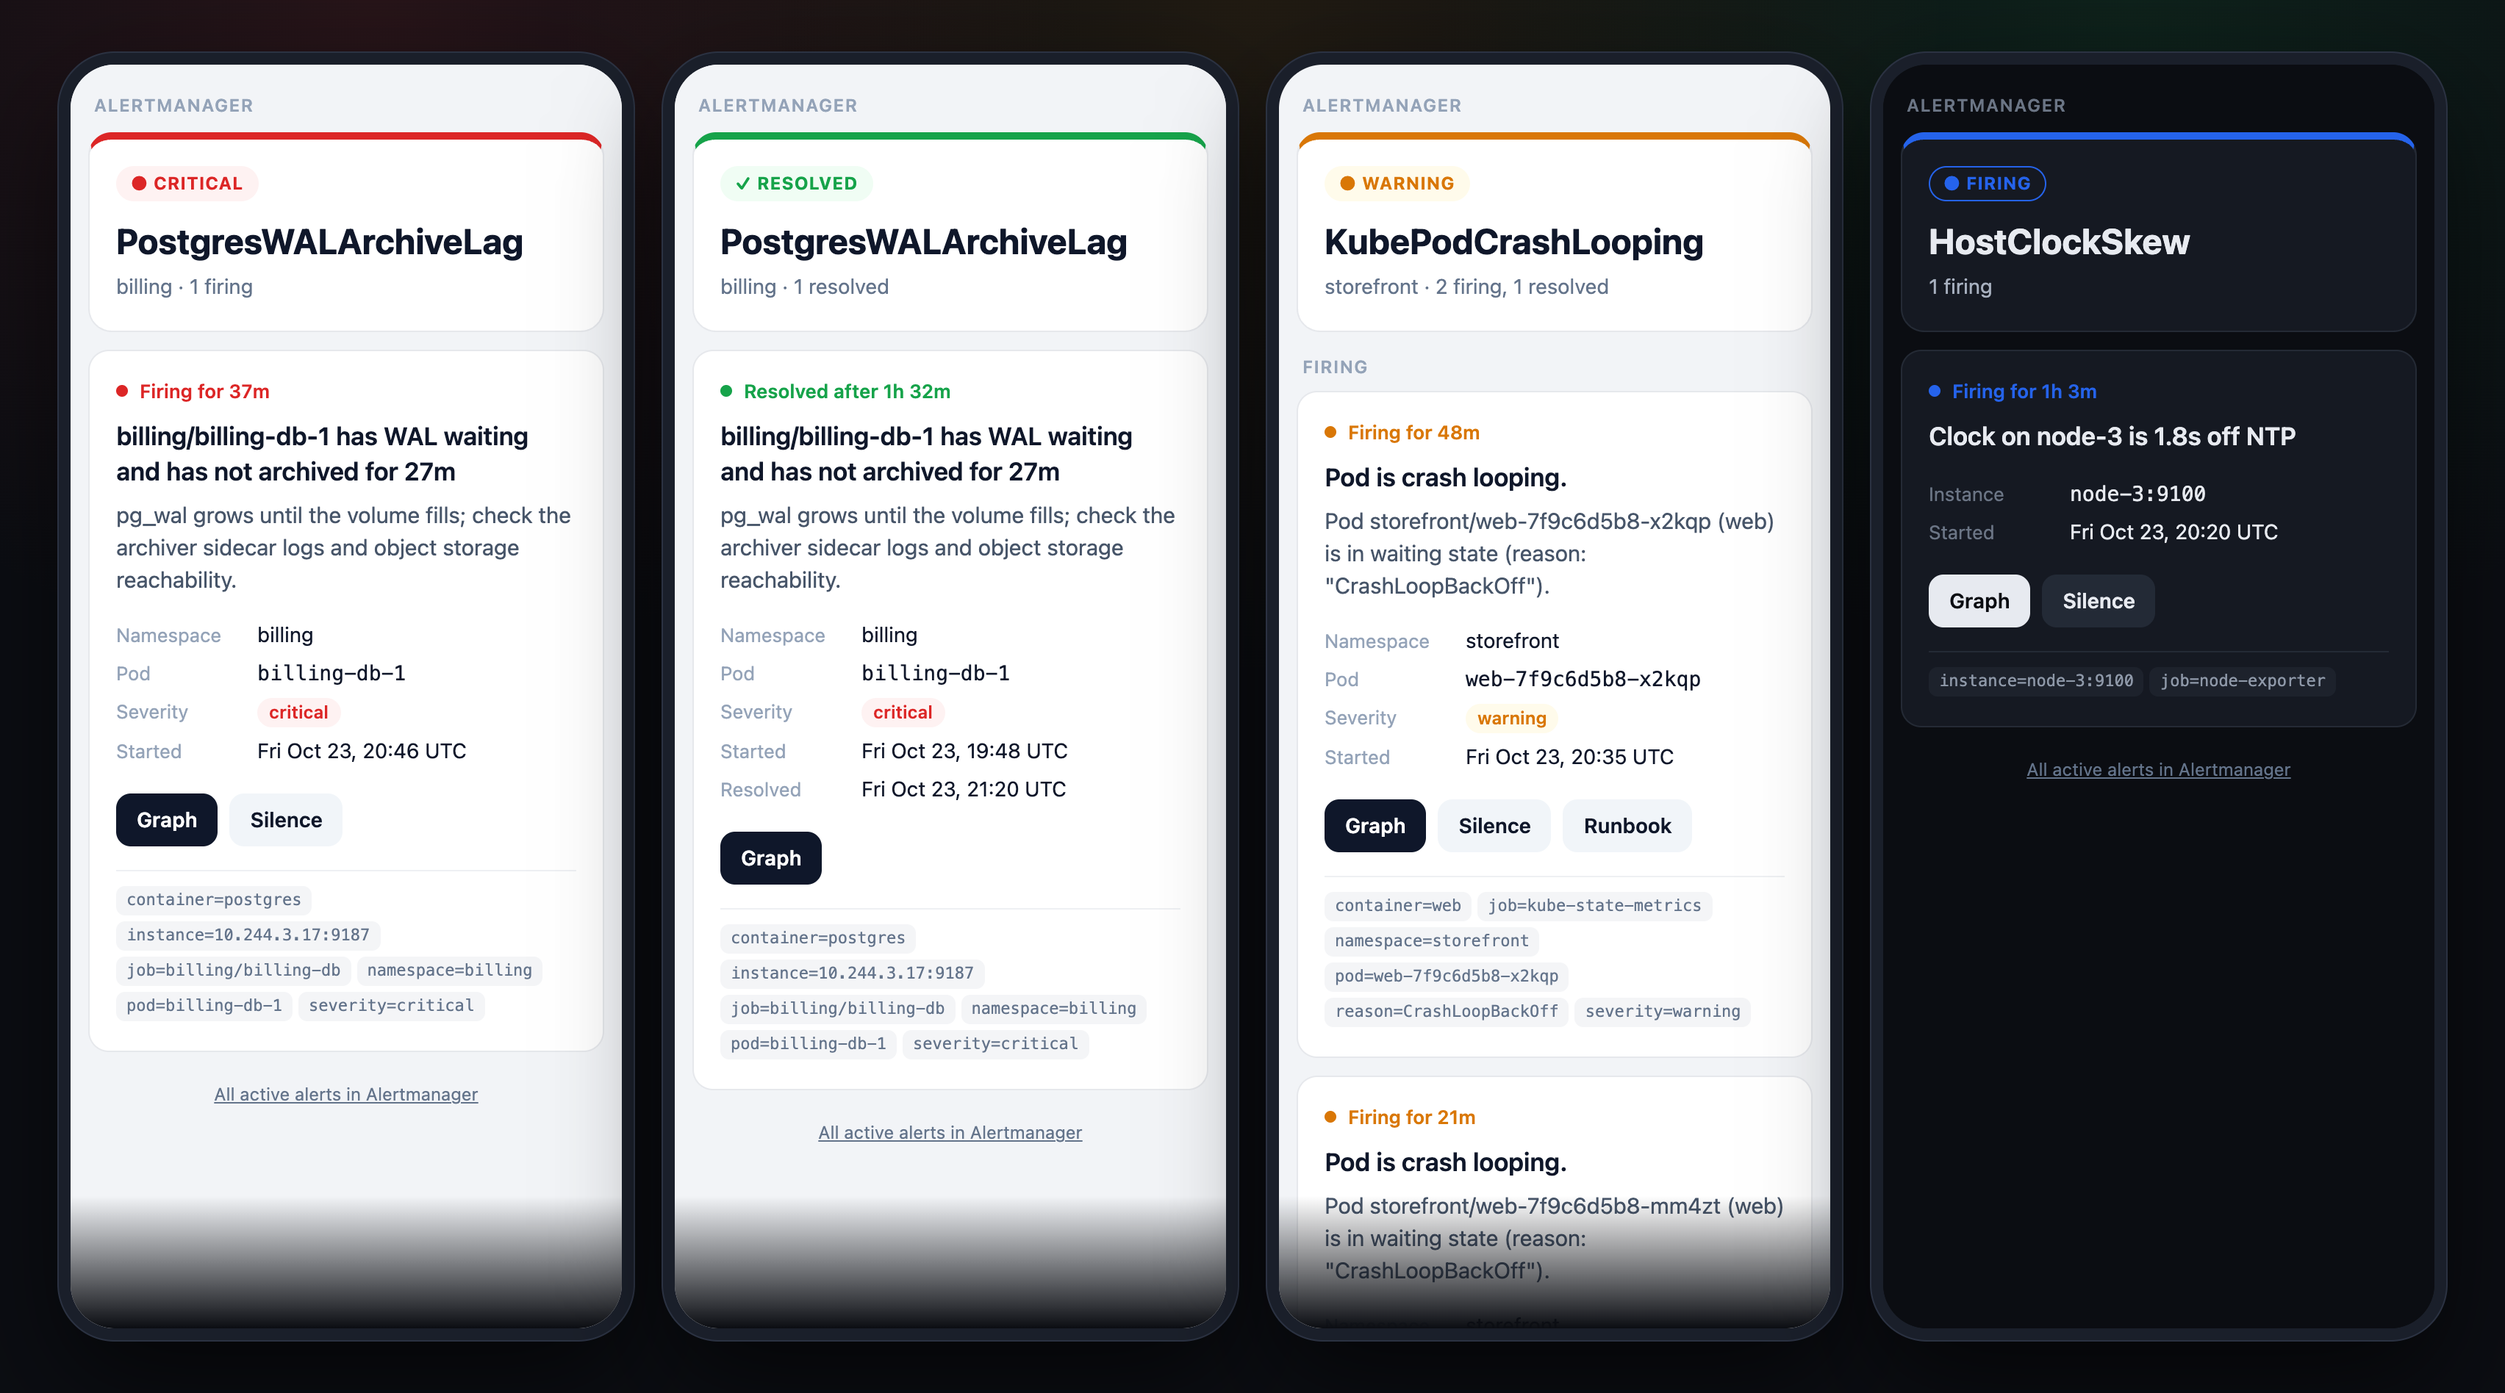
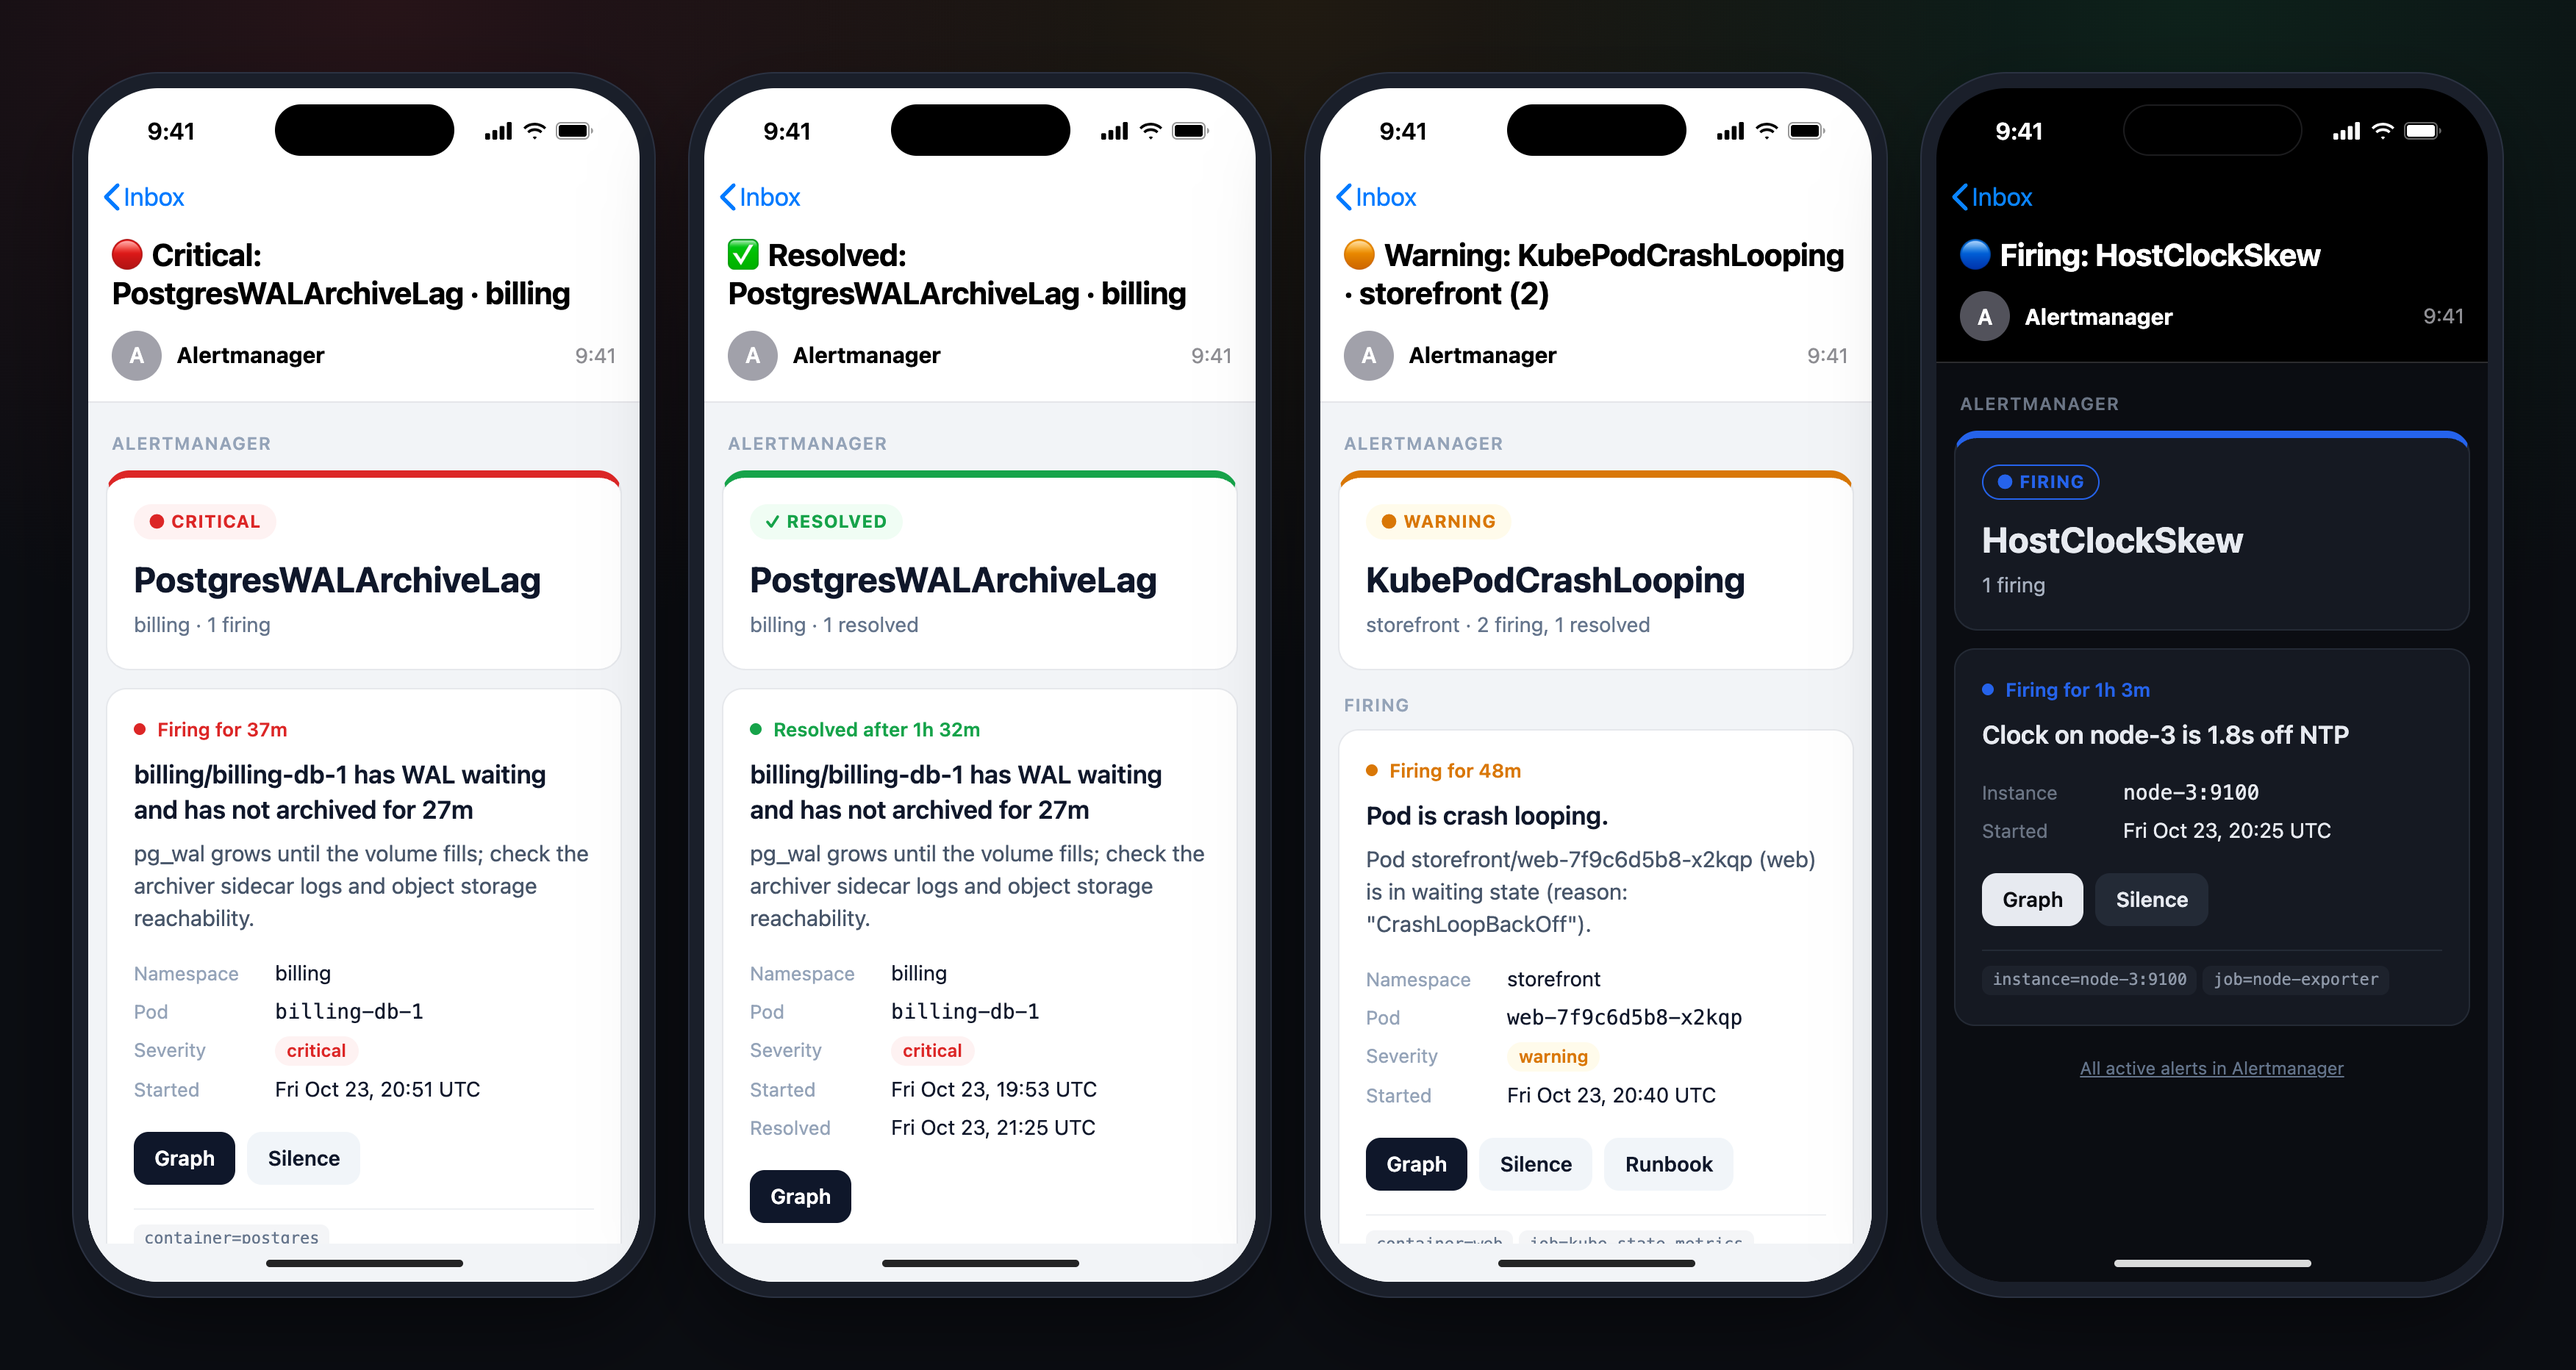
fix(preview): fixed-size phone mock, no stray frame scrollbars

Changed region(s): [[0.0, 0.0311, 0.9953, 0.9646], [0.8087, 0.7779, 0.902, 0.809]]

diff --git a/preview/page.html b/preview/page.html
@@ -66,24 +66,46 @@
   .links { display: flex; gap: 14px; font-size: 13px; margin-top: 12px; }
   .links a { color: var(--muted); }
   .links a:hover { color: var(--text); }
-  .frames { display: flex; gap: 28px; flex-wrap: wrap; align-items: flex-start; padding: 9px; }
-  figure { margin: 0; }
-  figure iframe { display: block; width: 375px; height: 640px; border: 0; border-radius: 28px;
-                  background: #f2f4f7; box-shadow: 0 0 0 8px #1a1f2a, 0 0 0 9px #2b3242, 0 24px 60px #0008; }
-  figure:nth-child(2) iframe { background: #0b0d12; }
+  .frames { display: flex; gap: 32px; flex-wrap: wrap; align-items: flex-start; padding: 11px; }
+
+  /* Phone view: a fixed iPhone-sized screen; the email scrolls inside it. */
+  .device { margin: 0; width: 375px; height: 812px; border-radius: 48px; overflow: hidden; display: flex;
+            flex-direction: column; background: var(--scr); color: var(--ink);
+            box-shadow: 0 0 0 10px #1a1f2a, 0 0 0 11px #2b3242, 0 24px 60px #0008;
+            font-family: -apple-system, BlinkMacSystemFont, "SF Pro Text", "Segoe UI", Roboto, Helvetica, Arial, sans-serif; }
+  .device.light { --scr: #ffffff; --ink: #000000; --sub: #8e8e93; --sep: #e5e5ea; --tint: #007aff; --av: #a1a1aa; --mail: #f2f4f7; }
+  .device.dark { --scr: #000000; --ink: #ffffff; --sub: #8e8e93; --sep: #2c2c2e; --tint: #0a84ff; --av: #52525b; --mail: #0b0d12; }
+  .status { flex: none; position: relative; height: 54px; display: flex; align-items: center; justify-content: space-between;
+            padding: 4px 30px 0 40px; font-size: 16px; font-weight: 600; letter-spacing: -.01em; }
+  .island { position: absolute; top: 11px; left: 50%; width: 122px; height: 35px; margin-left: -61px; border-radius: 20px; background: #000; }
+  .device.dark .island { box-shadow: inset 0 0 0 1px #1c1c1e; }
+  .status svg { display: block; height: 12px; fill: currentColor; }
+  .status .icons { display: flex; gap: 6px; align-items: center; }
+  .mailnav { flex: none; height: 40px; display: flex; align-items: center; gap: 2px; padding: 0 10px; color: var(--tint); font-size: 17px; }
+  .mailnav svg { width: 12px; height: 20px; stroke: currentColor; fill: none; stroke-width: 2.6; stroke-linecap: round; stroke-linejoin: round; }
+  .mailhead { flex: none; padding: 6px 16px 14px; border-bottom: 1px solid var(--sep); }
+  .mailhead .subj { font-size: 21px; line-height: 1.25; font-weight: 700; letter-spacing: -.01em; }
+  .mailhead .from { display: flex; align-items: center; gap: 10px; margin-top: 12px; font-size: 15px; }
+  .mailhead .av { flex: none; width: 34px; height: 34px; border-radius: 17px; display: grid; place-items: center;
+                  background: var(--av); color: #fff; font-weight: 600; font-size: 15px; }
+  .mailhead time { margin-left: auto; color: var(--sub); font-size: 14px; }
+  .device iframe { flex: 1; min-height: 0; width: 100%; border: 0; display: block; background: var(--mail); }
+  .home { flex: none; height: 26px; display: flex; align-items: center; justify-content: center; background: var(--mail); }
+  .home::after { content: ""; width: 134px; height: 5px; border-radius: 3px; background: var(--ink); opacity: .85; }
   .bar { display: none; }
 
-  /* Desktop view: full-width mail windows, light above dark. */
-  body[data-view="desktop"] .frames { flex-direction: column; flex-wrap: nowrap; gap: 32px; padding: 0; }
-  body[data-view="desktop"] figure { width: 100%; border-radius: 12px; overflow: hidden; border: 1px solid #2b3242;
-                                     box-shadow: 0 24px 60px #0008; }
+  /* Desktop view: mail windows sized to the email, light above dark. */
+  body[data-view="desktop"] .frames { flex-direction: column; flex-wrap: nowrap; padding: 0; }
+  body[data-view="desktop"] .device { width: 100%; height: auto; display: block; border-radius: 12px;
+                                      border: 1px solid #2b3242; box-shadow: 0 24px 60px #0008; background: #1a1f2a; }
+  body[data-view="desktop"] .status, body[data-view="desktop"] .mailnav,
+  body[data-view="desktop"] .mailhead, body[data-view="desktop"] .home { display: none; }
   body[data-view="desktop"] .bar { display: flex; align-items: center; gap: 7px; height: 38px; padding: 0 14px;
-                                   background: #1a1f2a; border-bottom: 1px solid #2b3242; }
-  body[data-view="desktop"] .bar i { width: 11px; height: 11px; border-radius: 6px; background: #3a4254; }
+                                   border-bottom: 1px solid #2b3242; }
+  body[data-view="desktop"] .bar i { width: 11px; height: 11px; border-radius: 6px; }
   body[data-view="desktop"] .bar i:nth-child(1) { background: #ff5f57; }
   body[data-view="desktop"] .bar i:nth-child(2) { background: #febc2e; }
   body[data-view="desktop"] .bar i:nth-child(3) { background: #28c840; }
-  body[data-view="desktop"] figure iframe { width: 100%; border-radius: 0; box-shadow: none; }
 
   .site-footer { border-top: 1px solid var(--line); margin-top: 48px; padding: 28px 0 48px; color: var(--muted); font-size: 13px; }
   .site-footer .wrap { display: flex; flex-wrap: wrap; gap: 8px 24px; justify-content: space-between; }
@@ -91,7 +113,7 @@
   @media (max-width: 960px) {
     .scenario { grid-template-columns: 1fr; }
     .side { position: static; }
-    figure iframe { width: min(375px, calc(100vw - 66px)); }
+    .device { width: min(375px, calc(100vw - 70px)); }
   }
 </style>
 </head>
@@ -127,25 +149,38 @@
 </div></footer>
 
 <script>
-  // Size each frame to its email; widths change with the view.
-  const frames = [...document.querySelectorAll("iframe")];
-  const fit = (f) => {
-    const d = f.contentDocument;
-    if (!d || !d.body) return;
-    f.style.height = "0px";
-    f.style.height = d.documentElement.scrollHeight + "px";
+  // Phone view: fixed screen, the email scrolls inside with the scrollbar hidden (as on iOS).
+  // Desktop view: frame sized to the email, no inner scrolling at all.
+  const frames = [...document.querySelectorAll(".device iframe")];
+  const css = {
+    phone: "html{scrollbar-width:none;overflow-x:hidden}html::-webkit-scrollbar{display:none}",
+    desktop: "html,body{overflow:hidden!important}",
   };
-  frames.forEach((f) => f.addEventListener("load", () => fit(f)));
+  const apply = (f) => {
+    const d = f.contentDocument;
+    if (!d || !d.head) return;
+    const view = document.body.dataset.view;
+    let s = d.getElementById("preview-css");
+    if (!s) { s = d.createElement("style"); s.id = "preview-css"; d.head.appendChild(s); }
+    s.textContent = css[view];
+    if (view === "desktop") {
+      f.style.height = "0px";
+      f.style.height = Math.ceil(d.documentElement.getBoundingClientRect().height) + "px";
+    } else {
+      f.style.height = "";
+    }
+  };
+  frames.forEach((f) => f.addEventListener("load", () => apply(f)));
 
   const buttons = [...document.querySelectorAll(".seg button")];
   const setView = (view) => {
     document.body.dataset.view = view;
     buttons.forEach((b) => b.classList.toggle("on", b.dataset.view === view));
     try { localStorage.setItem("view", view); } catch (e) {}
-    requestAnimationFrame(() => frames.forEach(fit));
+    frames.forEach(apply);
   };
   buttons.forEach((b) => b.addEventListener("click", () => setView(b.dataset.view)));
-  addEventListener("resize", () => frames.forEach(fit));
+  addEventListener("resize", () => frames.forEach(apply));
   const wanted = new URLSearchParams(location.search).get("view");
   let saved = null;
   try { saved = localStorage.getItem("view"); } catch (e) {}

diff --git a/preview/build.py b/preview/build.py
@@ -318,21 +318,44 @@ def preheader(body):
     return html.unescape(re.sub(r"\s+", " ", m.group(1))).strip() if m else ""
 
 
+STATUS_ICONS = (
+    '<svg viewBox="0 0 17 11" aria-hidden="true"><rect y="7" width="3" height="4" rx=".8"/><rect x="4.5" y="5" width="3" height="6" rx=".8"/>'
+    '<rect x="9" y="2.5" width="3" height="8.5" rx=".8"/><rect x="13.5" width="3" height="11" rx=".8"/></svg>'
+    '<svg viewBox="0 0 16 11" aria-hidden="true"><path d="M8 2.2c2.3 0 4.4.9 6 2.4l1.1-1.2A10.4 10.4 0 0 0 8 .5C5.3.5 2.8 1.5.9 3.4L2 4.6a8.6 8.6 0 0 1 6-2.4Zm0 3.4c1.4 0 2.6.5 3.6 1.4l1.1-1.2A7 7 0 0 0 8 3.9a7 7 0 0 0-4.7 1.9l1.1 1.2c1-.9 2.2-1.4 3.6-1.4Zm0 3.4c.5 0 1 .2 1.3.5L8 10.9 6.7 9.5c.3-.3.8-.5 1.3-.5Z"/></svg>'
+    '<svg viewBox="0 0 27 12" aria-hidden="true"><rect x=".5" y=".5" width="22" height="11" rx="3" fill="none" stroke="currentColor" opacity=".4"/>'
+    '<rect x="2" y="2" width="19" height="8" rx="1.6"/><path d="M24 4v4c.8-.3 1.4-1.1 1.4-2S24.8 4.3 24 4Z" opacity=".4"/></svg>'
+)
+
+
+def device(sid, mode, title, sender, subject):
+    """One email in a phone mock (phone view) or a mail window (desktop view)."""
+    e = html.escape
+    return f"""
+        <figure class="device {mode}">
+          <div class="bar"><i></i><i></i><i></i></div>
+          <div class="status"><span>9:41</span><span class="island"></span><span class="icons">{STATUS_ICONS}</span></div>
+          <div class="mailnav"><svg viewBox="0 0 12 20" aria-hidden="true"><path d="M10 2 2 10l8 8"/></svg>Inbox</div>
+          <div class="mailhead"><div class="subj">{e(subject)}</div>
+            <div class="from"><span class="av">{e(sender[0])}</span><b>{e(sender)}</b><time>9:41</time></div></div>
+          <iframe loading="lazy" src="emails/{sid}.{mode}.html" title="{e(title)}, {mode}"></iframe>
+          <div class="home"></div>
+        </figure>"""
+
+
 def card(sid, title, sender, rendered):
     e = html.escape
+    subject = rendered["subject"]
     return f"""
     <article class="scenario" id="{sid}">
       <div class="side">
         <h3>{e(title)}</h3>
         <div class="inbox"><div class="avatar">{e(sender[0])}</div><div class="inbox-text">
           <div class="inbox-top"><b>{e(sender)}</b></div>
-          <div class="inbox-subject">{e(rendered['subject'])}</div>
+          <div class="inbox-subject">{e(subject)}</div>
           <div class="inbox-pre">{e(preheader(rendered['html']))}</div></div></div>
         <div class="links"><a href="emails/{sid}.html">Full width</a><a href="emails/{sid}.txt">Plain text</a></div>
       </div>
-      <div class="frames">
-        <figure><div class="bar"><i></i><i></i><i></i></div><iframe loading="lazy" src="emails/{sid}.light.html" title="{e(title)}, light"></iframe></figure>
-        <figure><div class="bar"><i></i><i></i><i></i></div><iframe loading="lazy" src="emails/{sid}.dark.html" title="{e(title)}, dark"></iframe></figure>
+      <div class="frames">{device(sid, "light", title, sender, subject)}{device(sid, "dark", title, sender, subject)}
       </div>
     </article>"""
 
